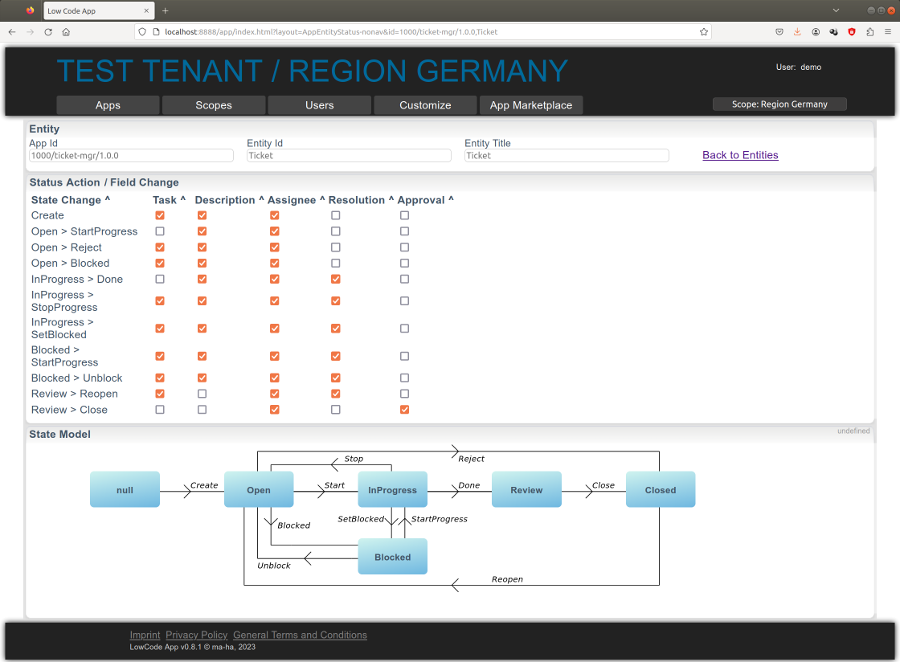
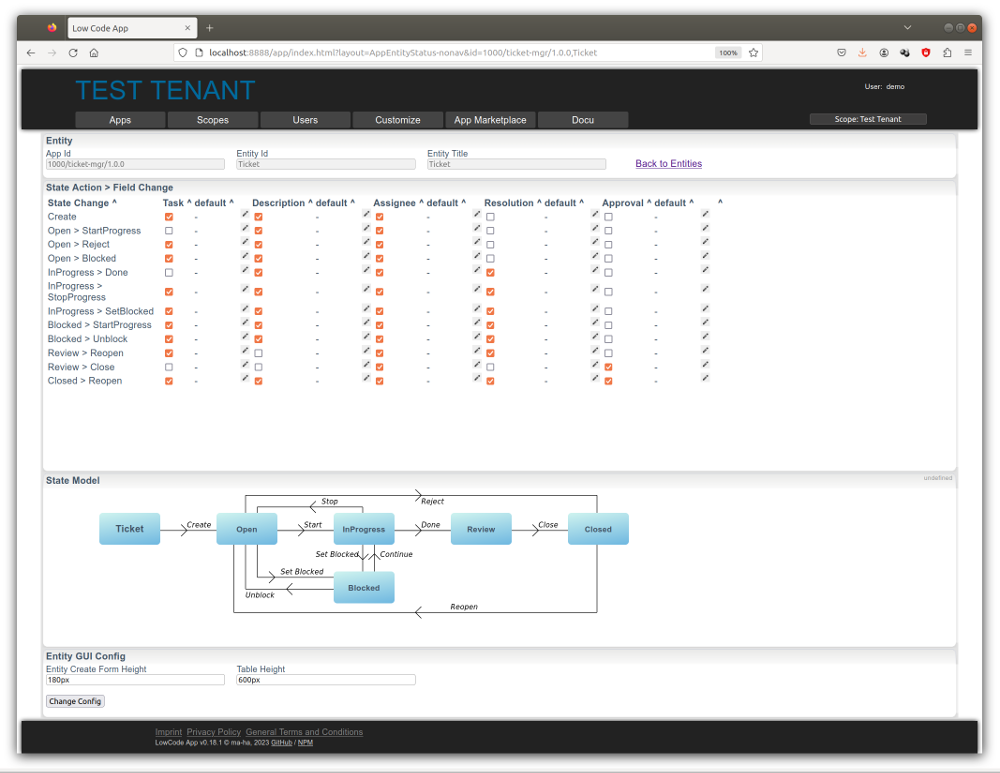
State Matrix: Default values + Filters

Changed region(s): [[0.0, 0.0, 1.0, 1.0]]

diff --git a/app/data/propertyHandler.js b/app/data/propertyHandler.js
@@ -258,6 +258,18 @@ async function genGuiFormFieldsDef( entity, filter, user, stateTransition, rende
     cols.push({ formFields: [{ id: "id", label: "Id", type: "text" } ]})
   }
 
+  let fieldDefault = {}
+  for ( let propId in entity.properties ) { // to fill fieldDefault
+    let defaultVal = null
+    let prop = entity.properties[ propId ]
+    if ( stateTransition && prop.stateTransition ) {
+      if ( prop.stateTransition[ stateTransition+'_default' ] ) {
+        defaultVal = prop.stateTransition[ stateTransition +'_default' ]
+      }
+    }
+    fieldDefault[ propId ] = defaultVal
+  }
+
   for ( let propId in entity.properties ) {
     if ( propId == 'id' ) { continue }
     let prop = entity.properties[ propId ]
@@ -269,22 +281,22 @@ async function genGuiFormFieldsDef( entity, filter, user, stateTransition, rende
     let defaultVal = null
     if ( stateTransition ) {
       if ( prop.stateTransition ) {
-        if ( prop.stateTransition[ stateTransition+'_default' ] ) {
-          defaultVal = prop.stateTransition[ stateTransition +'_default' ]
-        }
+        // if ( prop.stateTransition[ stateTransition+'_default' ] ) {
+        //   defaultVal = prop.stateTransition[ stateTransition +'_default' ]
+        // }
+        defaultVal = fieldDefault[ propId ]
         if ( ! prop.stateTransition[ stateTransition ] ) {
           if ( defaultVal ) {  
             cols.push({ formFields: [ { id: fldId, label: lbl, type: 'text', defaultVal: defaultVal, readonly: true } ] })
           }
           continue
         }
-        if ( prop.stateTransition[ stateTransition+'_default' ] ) {
-          defaultVal = prop.stateTransition[ stateTransition +'_default' ]
-        }
       } else {
         continue
       }
-    } else if ( prop.apiManaged ) { 
+    } 
+    
+    if ( prop.apiManaged ) { 
       cols.push({ formFields: [ { id: fldId, label: lbl, type: 'text', readonly: true } ] })
       continue 
     }
@@ -310,7 +322,9 @@ async function genGuiFormFieldsDef( entity, filter, user, stateTransition, rende
         for ( let val of prop.options ) {
           let opt = { option: val }
           if ( val == defaultVal ) { opt.selected = true }
-          fld.options.push( opt )
+          if ( filterMatch( defaultVal, { val: val }, fieldDefault ) ) {
+            fld.options.push( opt )
+          }
         }
         break 
       case 'SelectRef':
@@ -319,10 +333,12 @@ async function genGuiFormFieldsDef( entity, filter, user, stateTransition, rende
           let opdTbl = await dta.getData( prop.selectRef, user.scopeId )
           let refEntity = await getEntity( prop.selectRef, propId )
           for ( let recId in opdTbl ) { 
-            fld.options.push({ 
-              value  : recId, 
-              option : getRefLabel( refEntity, recId, opdTbl[recId] ) 
-            }) 
+            if ( filterMatch( defaultVal, opdTbl[recId], fieldDefault ) ) {
+              fld.options.push({ 
+                value  : recId, 
+                option : getRefLabel( refEntity, recId, opdTbl[recId] ) 
+              }) 
+            }
           }
         } catch ( exc ) { log.error( 'genAddDataForm', exc )  }
         break 
@@ -332,10 +348,12 @@ async function genGuiFormFieldsDef( entity, filter, user, stateTransition, rende
           let opdTbl = await dta.getData( prop.multiSelectRef, user.scopeId )
           let refEntity = await getEntity( prop.multiSelectRef, propId )
           for ( let recId in opdTbl ) { 
-            fld.options.push({ 
-              value: recId, 
-              option: getRefLabel( refEntity, recId, opdTbl[recId] ) 
-            }) 
+            if ( filterMatch( defaultVal, opdTbl[recId], fieldDefault ) ) {
+              fld.options.push({ 
+                value: recId, 
+                option: getRefLabel( refEntity, recId, opdTbl[recId] ) 
+              }) 
+            }
           }
         } catch ( exc ) { log.error( 'genAddDataForm', exc )  }
         break 
@@ -389,6 +407,40 @@ async function genGuiFormFieldsDef( entity, filter, user, stateTransition, rende
   return cols
 }
 
+function filterMatch( filter, dta, fieldDefault ) {
+  if ( ! filter || filter == '' ) { return true }
+  //log.info( 'filterMatch', filter, dta, fieldDefault )
+  try {
+    if ( filter.indexOf(' $eq ') > 0 ) {
+      let { ref1, ref2 } = splitQry( filter, ' $eq ' )
+      let val1 = getVal( ref1, dta, fieldDefault )
+      let val2 = getVal( ref2, fieldDefault, dta )
+      log.info( 'filterMatch >', filter, '"'+ref1+'"', '"'+ref2+'"', '"'+val1+'"', '"'+val2+'"' )
+      return ( val1 == val2 ) 
+    } else {
+      return true
+    } 
+  } catch ( exc ) { log.warn( '', exc.message ) }
+  return true
+}
+
+function splitQry( filter, cmpStr ) {
+  let pos = filter.indexOf( cmpStr )
+  let ref1 = filter.substr( 0, pos  )
+  let ref2 = filter.substr( pos + cmpStr.length )
+  return { ref1: ref1, ref2: ref2 }
+}
+
+function getVal( ref, dta1, dta2 ) {
+  if ( ref.startsWith("'") || ref.endsWith("'") ) {
+    return ref.substr( 1, ref.length-2 )
+  } else if ( dta1[ ref ] ) {
+    return dta1[ ref ]
+  } else if ( dta2[ ref ] ) {
+    return dta2[ ref ] 
+  }
+  return ref
+}
 
 async function genGuiFormStateChangeDef( entity, filter, user, stateTransition, rec, stateModel ) {
   log.info( 'genGuiFormStateChangeDef', entity, stateTransition )

diff --git a/app/api/api-appmgr.js b/app/api/api-appmgr.js
@@ -410,6 +410,7 @@ async function getPropertyStatus( req, res ) {
         // log.info( ' >>', propId )
         if ( ! prop.stateTransition ) { // default: all fields
           propRow[ 'prop/'+pId ] = false 
+          propRow[ 'prop/'+pId+'/default' ] = '-'
         } else {
           if ( prop.stateTransition[ statesId +'_'+ transitionId ] ) {
             propRow[ 'prop/'+pId ] = true

diff --git a/README.md b/README.md
@@ -110,11 +110,7 @@ So relations are
 - **n:1** = `SelectRef`
 - **n:m** = `MultiSelectRef`
 
-Entities can be attached to a "State Model". 
-
 Entity Ids must be alphanumeric, min length is 2.
-
-![sceenshot](doc/locode-statemodel.png)
 
 Property features:
 - you can select a property for the data table filter
@@ -125,7 +121,7 @@ Property features:
 This enables different views on the same data in different apps (if different apps have the same entity, but different properties). 
 But: Please choose your entity ids wisely, if you don't want this behavior.
 
-For JSON properties sub-elements can be defined with a dot-notation (e.g. "JsonProp.MySubField"). Allowed types: 'String', 'Text','Boolean','Date','Select'.
+For JSON properties sub-elements can be defined with a dot-notation (e.g. "MyJsonProp.MySubField"). Allowed types: 'String', 'Text','Boolean','Date','Select'.
 
 # Add New Root Scope (aka "Tenant")
 
@@ -153,6 +149,23 @@ A new tenant (root scope) can also be added via GUI.
 The user must be in the `SUPER_TENANT_ADMIN` list (comma separated user ids).
 In the add scope form simple put a `#` into the scope id. 
 
+# Entities with State
+
+Entities can be attached to a "State Model". 
+
+The state model defines all states and the allowed transitions and their action name. 
+State models can be created or customized  in the browser.
+
+For all actions you select the properties which need to be set in the state transition. In the GUI the user get  entity create form(s) and action links for the state changes. Forms will be generated for each action to change the selected properties.
+
+![sceenshot](doc/locode-statemodel.png)
+
+For the action you can also define default values for properties. If the property is not selected for the action but has a default value, this value is set always. 
+
+The default value for "select", "selectRef" and "multiSelectRef" properties can contain a condition to filter the allowed options, e.g.: `color $eq 'red'`. 
+Currently only `$eq` is allowed. The compared values can be a String (in single quotes) or a property. 
+The left value is prioritized taken from the select values and the right from the entity default values. 
+For "select" the condition can be `val $eq ...`.
 
 # Integration 
 

diff --git a/CHANGELOG.md b/CHANGELOG.md
@@ -1,6 +1,8 @@
 # 0.19.0
 - App page: hide tabs if it's only one entity 
 - Entity: Configs
+- State Matrix: Default values
+- State Matrix: Filters for "select", "selectRef" and "multiSelectRef" 
 
 # 0.18.1
 - State: matrix fix 
